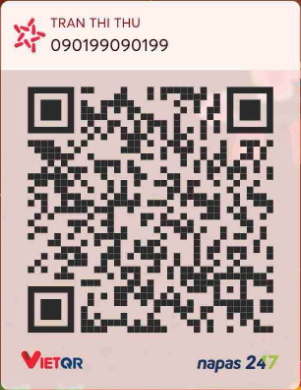
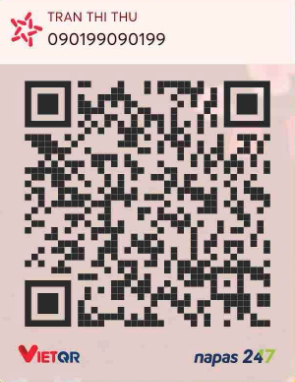
add banking account

Changed region(s): [[0.0, 0.0, 1.0, 1.0], [0.061, 0.8927, 0.2746, 0.9503]]

diff --git a/js/common/bii.js b/js/common/bii.js
@@ -198,86 +198,86 @@ if(biicore.bgMusic){
 	`);
 }
 
-if(!biicore.isPremium && !biicore.templatePremium) {
-	setTimeout(function(){
-		document.getElementsByClassName("bii-logo")[0].classList.add("show-sec");
-	}, 8000);
-	setTimeout(function(){
-		document.getElementsByClassName("bii-logo")[0].classList.remove("show-sec");
-	}, 11000);
-	setTimeout(function(){
-		document.getElementsByClassName("bii-logo")[0].classList.add("show-sec");
-	}, 25000);
-	setTimeout(function(){
-		document.getElementsByClassName("bii-logo")[0].classList.remove("show-sec");
-	}, 28000);
-	var biiLogo = biicore.webroot + '/common/imgs/bii.png?v=20210131'
-	var currentYear = new Date().getFullYear();
-	document.write(`
-	<style type="text/css">
-	@-webkit-keyframes biilogo-pulse {
-	  from {
-	    -webkit-transform: scale3d(1, 1, 1);
-	    transform: scale3d(1, 1, 1);
-	  }
-	  50% {
-	    -webkit-transform: scale3d(0.95, 0.95, 0.95);
-	    transform: scale3d(0.95, 0.95, 0.95);
-	  }
-	  to {
-	    -webkit-transform: scale3d(1, 1, 1);
-	    transform: scale3d(1, 1, 1);
-	  }
-	}
+// if(!biicore.isPremium && !biicore.templatePremium) {
+// 	setTimeout(function(){
+// 		document.getElementsByClassName("bii-logo")[0].classList.add("show-sec");
+// 	}, 8000);
+// 	setTimeout(function(){
+// 		document.getElementsByClassName("bii-logo")[0].classList.remove("show-sec");
+// 	}, 11000);
+// 	setTimeout(function(){
+// 		document.getElementsByClassName("bii-logo")[0].classList.add("show-sec");
+// 	}, 25000);
+// 	setTimeout(function(){
+// 		document.getElementsByClassName("bii-logo")[0].classList.remove("show-sec");
+// 	}, 28000);
+// 	var biiLogo = biicore.webroot + '/common/imgs/bii.png?v=20210131'
+// 	var currentYear = new Date().getFullYear();
+// 	document.write(`
+// 	<style type="text/css">
+// 	@-webkit-keyframes biilogo-pulse {
+// 	  from {
+// 	    -webkit-transform: scale3d(1, 1, 1);
+// 	    transform: scale3d(1, 1, 1);
+// 	  }
+// 	  50% {
+// 	    -webkit-transform: scale3d(0.95, 0.95, 0.95);
+// 	    transform: scale3d(0.95, 0.95, 0.95);
+// 	  }
+// 	  to {
+// 	    -webkit-transform: scale3d(1, 1, 1);
+// 	    transform: scale3d(1, 1, 1);
+// 	  }
+// 	}
 	
-	@keyframes biilogo-pulse {
-	  from {
-	    -webkit-transform: scale3d(1, 1, 1);
-	    transform: scale3d(1, 1, 1);
-	  }
-	  50% {
-	    -webkit-transform: scale3d(0.95, 0.95, 0.95);
-	    transform: scale3d(0.95, 0.95, 0.95);
-	  }
-	  to {
-	    -webkit-transform: scale3d(1, 1, 1);
-	    transform: scale3d(1, 1, 1);
-	  }
-	}
-	.bii-logo{position: fixed;bottom: 70px;right: 50px;width: 40px;height: 40px;z-index:99998;}
-	.bii-logo a{display: block;}
-	.bii-logo:before{content: "";position: absolute;-webkit-border-radius: 50%;-moz-border-radius: 50%;-o-border-radius: 50%;-ms-border-radius: 50%;border-radius: 50%;z-index: -1;background-color: rgba(242, 59, 67, 0.3);width: 120%;height: 120%;left: -10%;top: -10%;-webkit-animation: biilogo-pulse 1s infinite;animation: biilogo-pulse 1s infinite;z-index: 1;}
-	.bii-logo img{width: 100%;z-index: 99999;position: absolute;cursor:pointer;}
-	.bii-logo:hover .bii-logo-secondary{visibility: visible;}
-	.bii-logo:hover .bii-logo-secondary-content{ transform: translate3d(0, 0, 0);}
-	.bii-logo.show-sec .bii-logo-secondary{visibility: visible;}
-	.bii-logo.show-sec .bii-logo-secondary-content{ transform: translate3d(0, 0, 0);}
+// 	@keyframes biilogo-pulse {
+// 	  from {
+// 	    -webkit-transform: scale3d(1, 1, 1);
+// 	    transform: scale3d(1, 1, 1);
+// 	  }
+// 	  50% {
+// 	    -webkit-transform: scale3d(0.95, 0.95, 0.95);
+// 	    transform: scale3d(0.95, 0.95, 0.95);
+// 	  }
+// 	  to {
+// 	    -webkit-transform: scale3d(1, 1, 1);
+// 	    transform: scale3d(1, 1, 1);
+// 	  }
+// 	}
+// 	.bii-logo{position: fixed;bottom: 70px;right: 50px;width: 40px;height: 40px;z-index:99998;}
+// 	.bii-logo a{display: block;}
+// 	.bii-logo:before{content: "";position: absolute;-webkit-border-radius: 50%;-moz-border-radius: 50%;-o-border-radius: 50%;-ms-border-radius: 50%;border-radius: 50%;z-index: -1;background-color: rgba(242, 59, 67, 0.3);width: 120%;height: 120%;left: -10%;top: -10%;-webkit-animation: biilogo-pulse 1s infinite;animation: biilogo-pulse 1s infinite;z-index: 1;}
+// 	.bii-logo img{width: 100%;z-index: 99999;position: absolute;cursor:pointer;}
+// 	.bii-logo:hover .bii-logo-secondary{visibility: visible;}
+// 	.bii-logo:hover .bii-logo-secondary-content{ transform: translate3d(0, 0, 0);}
+// 	.bii-logo.show-sec .bii-logo-secondary{visibility: visible;}
+// 	.bii-logo.show-sec .bii-logo-secondary-content{ transform: translate3d(0, 0, 0);}
 	
-	.bii-logo-secondary{position: absolute;width: 320px;right: 25px;height: 40px;overflow: hidden;visibility: hidden;}
-	.bii-logo-secondary-content{display: flex;align-items: center;position: absolute;width: 320px;right: -25px;background: #fff;height: 40px;padding: 8px 40px 8px 11px;border: 1px solid #df4759;border-radius: 30px;z-index: 9999;font-size:14px;transform: translate3d(100%, 0, 0);transition: transform 175ms ease;font-family: arial;font-weight: 200;color: #000;}
-	.bii-footer .show-desktop{display: inline-block;}
-	.bii-footer .show-mobile{display: none;}
-	@media (max-width: 799px) {
-	  .bii-logo{bottom: 30px;right: 20px;}
-	  .bii-footer .show-desktop{display: none;}
-	  .bii-footer .show-mobile{display: inline-block;}
-	}
-	</style>
-	<div class="bii-logo"><div class="bii-logo-secondary"><div class="bii-logo-secondary-content">Ná»n táº£ng táº¡o Website Ä‘Ã¡m cÆ°á»›i miá»…n phÃ!</div></div><a href="${biicore.coreSite}/iwedding" target="_blank"><img src="${biiLogo}" /></a></div>
-	<div class="bii-footer" style="z-index:9999;background-color: #000;border-top: 1px solid #df4759;color: #fff;text-align: center;letter-spacing: 1px;bottom: 0;width: 100%;font-size: 15px;">
-		<div class="container">
-			<a style="color: #fff;padding: 10px 0 13px;display: flex;align-items: center;justify-content: center;" href="https://biihappy.com/iwedding" target="_blank">
-				<span style="margin-right: 5px;"><img width="30" src="${biiLogo}" style="border: 1px solid #fff;border-radius: 50%;width:30px!important;margin-right:5px;" /> IWedding</span> | <span class="show-desktop" style="margin-left: 5px;">Ná»n táº£ng táº¡o website Ä‘Ã¡m cÆ°á»›i miá»…n phÃ tá»« Biihappy</span><span class="show-mobile">Táº¡o website Ä‘Ã¡m cÆ°á»›i miá»…n phÃ</span>
-				<span style="line-height: 15px;vertical-align: middle;">
-					<svg xmlns="http://www.w3.org/2000/svg" width="16" height="16" fill="currentColor" class="bi bi-arrow-right-short" viewBox="0 0 16 16">
-					  <path fill-rule="evenodd" d="M4 8a.5.5 0 0 1 .5-.5h5.793L8.146 5.354a.5.5 0 1 1 .708-.708l3 3a.5.5 0 0 1 0 .708l-3 3a.5.5 0 0 1-.708-.708L10.293 8.5H4.5A.5.5 0 0 1 4 8z"/>
-					</svg>
-				</span>
-			</a>
-		</div>
-	</div>
-	`);
-}
+// 	.bii-logo-secondary{position: absolute;width: 320px;right: 25px;height: 40px;overflow: hidden;visibility: hidden;}
+// 	.bii-logo-secondary-content{display: flex;align-items: center;position: absolute;width: 320px;right: -25px;background: #fff;height: 40px;padding: 8px 40px 8px 11px;border: 1px solid #df4759;border-radius: 30px;z-index: 9999;font-size:14px;transform: translate3d(100%, 0, 0);transition: transform 175ms ease;font-family: arial;font-weight: 200;color: #000;}
+// 	.bii-footer .show-desktop{display: inline-block;}
+// 	.bii-footer .show-mobile{display: none;}
+// 	@media (max-width: 799px) {
+// 	  .bii-logo{bottom: 30px;right: 20px;}
+// 	  .bii-footer .show-desktop{display: none;}
+// 	  .bii-footer .show-mobile{display: inline-block;}
+// 	}
+// 	</style>
+// 	<div class="bii-logo"><div class="bii-logo-secondary"><div class="bii-logo-secondary-content">Ná»n táº£ng táº¡o Website Ä‘Ã¡m cÆ°á»›i miá»…n phÃ!</div></div><a href="${biicore.coreSite}/iwedding" target="_blank"><img src="${biiLogo}" /></a></div>
+// 	<div class="bii-footer" style="z-index:9999;background-color: #000;border-top: 1px solid #df4759;color: #fff;text-align: center;letter-spacing: 1px;bottom: 0;width: 100%;font-size: 15px;">
+// 		<div class="container">
+// 			<a style="color: #fff;padding: 10px 0 13px;display: flex;align-items: center;justify-content: center;" href="https://biihappy.com/iwedding" target="_blank">
+// 				<span style="margin-right: 5px;"><img width="30" src="${biiLogo}" style="border: 1px solid #fff;border-radius: 50%;width:30px!important;margin-right:5px;" /> IWedding</span> | <span class="show-desktop" style="margin-left: 5px;">Ná»n táº£ng táº¡o website Ä‘Ã¡m cÆ°á»›i miá»…n phÃ tá»« Biihappy</span><span class="show-mobile">Táº¡o website Ä‘Ã¡m cÆ°á»›i miá»…n phÃ</span>
+// 				<span style="line-height: 15px;vertical-align: middle;">
+// 					<svg xmlns="http://www.w3.org/2000/svg" width="16" height="16" fill="currentColor" class="bi bi-arrow-right-short" viewBox="0 0 16 16">
+// 					  <path fill-rule="evenodd" d="M4 8a.5.5 0 0 1 .5-.5h5.793L8.146 5.354a.5.5 0 1 1 .708-.708l3 3a.5.5 0 0 1 0 .708l-3 3a.5.5 0 0 1-.708-.708L10.293 8.5H4.5A.5.5 0 0 1 4 8z"/>
+// 					</svg>
+// 				</span>
+// 			</a>
+// 		</div>
+// 	</div>
+// 	`);
+// }
 
 var showButtonWishSuggestions = document.querySelector('.show-autocomplete');
 var hideButtonWishSuggestions = document.querySelector('.hide-autocomplete');

diff --git a/index.html b/index.html
@@ -22,13 +22,14 @@
     content="https://cdn.biihappy.com/ziiweb/website/662dd362d0357874a40ea222/1530766225ac96499cf1ed4aafb1b782.jpeg">
   <meta property="og:image:secure_url"
     content="https://cdn.biihappy.com/ziiweb/website/662dd362d0357874a40ea222/1530766225ac96499cf1ed4aafb1b782.jpeg">
-  <link rel="shortcut icon" type="image/x-icon" href="https://iwedding.info/favicon.ico">
+  <link rel="shortcut icon" type="image/x-icon" href="./favicon.ico">
   <link href="https://trungtrangwedding17052024.iwedding.info/templates/template15/css/libs.css?v=20240418"
     rel="stylesheet">
   <link href="https://trungtrangwedding17052024.iwedding.info/common/calendar.css?v=20240418" rel="stylesheet">
   <link href="https://trungtrangwedding17052024.iwedding.info/templates/template15/css/style.css?v=20240418"
     rel="stylesheet">
   <link href="https://trungtrangwedding17052024.iwedding.info/common/fonts/fonts.css?v=20240418" rel="stylesheet">
+  <link href="./css/index.css" rel="stylesheet">
   <!-- Global site tag (gtag.js) - Google Analytics -->
   <!-- <script async src="https://www.googletagmanager.com/gtag/js?id=G-K9L0ZFE1PJ"></script> -->
   <!-- <script>window.dataLayer = window.dataLayer || []; function gtag() { dataLayer.push(arguments); } gtag('js', new Date()); gtag('config', 'G-K9L0ZFE1PJ');</script> -->
@@ -651,17 +652,17 @@
                     <div class="donate-card">
                       <h3>Mừng cưới đến chú rể</h3>
                       <img class="qr-code-image" src="./images/qr/trung.png">
-                      <p>Ngân hàng: <strong>Techcombank</strong></p>
-                      <p>Tên tài khoản: <strong>TRAN HUU TRUNG</strong></p>
-                      <p>Số tài khoản: <strong>19034 081 837 018</strong></p>
+                      <p>Ngân hàng: <strong>MB Bank</strong></p>
+                      <p>Tên tài khoản: <strong>NGUYEN TRONG TRUNG</strong></p>
+                      <p>Số tài khoản: <strong>666 612 091 993</strong></p>
                     </div>
 
                     <div class="donate-card">
                       <h3>Mừng cưới đến cô dâu</h3>
-                      <img class="qr-code-image" src="./images/qr/trang.png">
-                      <p>Ngân hàng: <strong>BIDV Bank</strong></p>
-                      <p>Tên tài khoản: <strong>DANG THI TRANG</strong></p>
-                      <p>Số tài khoản: <strong>511 055 3456</strong></p>
+                      <img class="qr-code-image" src="./images/qr/thu.png">
+                      <p>Ngân hàng: <strong>MB Bank</strong></p>
+                      <p>Tên tài khoản: <strong>TRAN THI THU</strong></p>
+                      <p>Số tài khoản: <strong>090 199 090 199</strong></p>
                     </div>
                   </div>
                 </div>
@@ -683,6 +684,8 @@
       </div>
     </footer>
   </div>
+
+  <!-- Số tài khoản ngân hàng -->
   <div id="donate-modal" class="donate-modal">
     <div class="donate-modal-content">
       <div class="donate-modal-header">
@@ -703,10 +706,10 @@
         <div class="donate-box">
           <div class="donate-card">
             <h3>Mừng cưới đến chú rể</h3>
-            <img class="qr-code-image" src="./images/qr/thu.png">
-            <p>Ngân hàng: <strong>xxxx</strong></p>
-            <p>Tên tài khoản: <strong>xxxx</strong></p>
-            <p>Số tài khoản: <strong>xxx xxxx</strong></p>
+            <img class="qr-code-image" src="./images/qr/trung.png">
+            <p>Ngân hàng: <strong>MB Bank</strong></p>
+            <p>Tên tài khoản: <strong>NGUYEN TRONG TRUNG</strong></p>
+            <p>Số tài khoản: <strong>666 612 091 993</strong></p>
           </div>
 
           <div class="donate-card">

diff --git a/templates/template15/js/script.js b/templates/template15/js/script.js
@@ -881,12 +881,12 @@
         $('.btn-menu-close').show();
         $('ul.list-menu-icon').css('opacity','1');
     }, 3000); 
-    $( window ).on("load", function(){
-		if($('.bii-logo').length > 0){
-			$('#menu-access').css('bottom','278px');
-			document.querySelector('style').textContent += "@media (max-width: 799px){#menu-access{bottom: 238px!important;}}"
-		} 
-	})
+    // $( window ).on("load", function(){
+	// 	if($('.bii-logo').length > 0){
+	// 		$('#menu-access').css('bottom','278px');
+	// 		document.querySelector('style').textContent += "@media (max-width: 799px){#menu-access{bottom: 238px!important;}}"
+	// 	} 
+	// })
     function shakeTooltip(){
         var arrTooltip = $('ul.list-menu-icon').children();
         arrTooltip.each(function(index) {

diff --git a/css/index.css b/css/index.css
@@ -1,0 +1,3 @@
+.bii-logo, .bii-footer {
+  display: none !important;
+}
